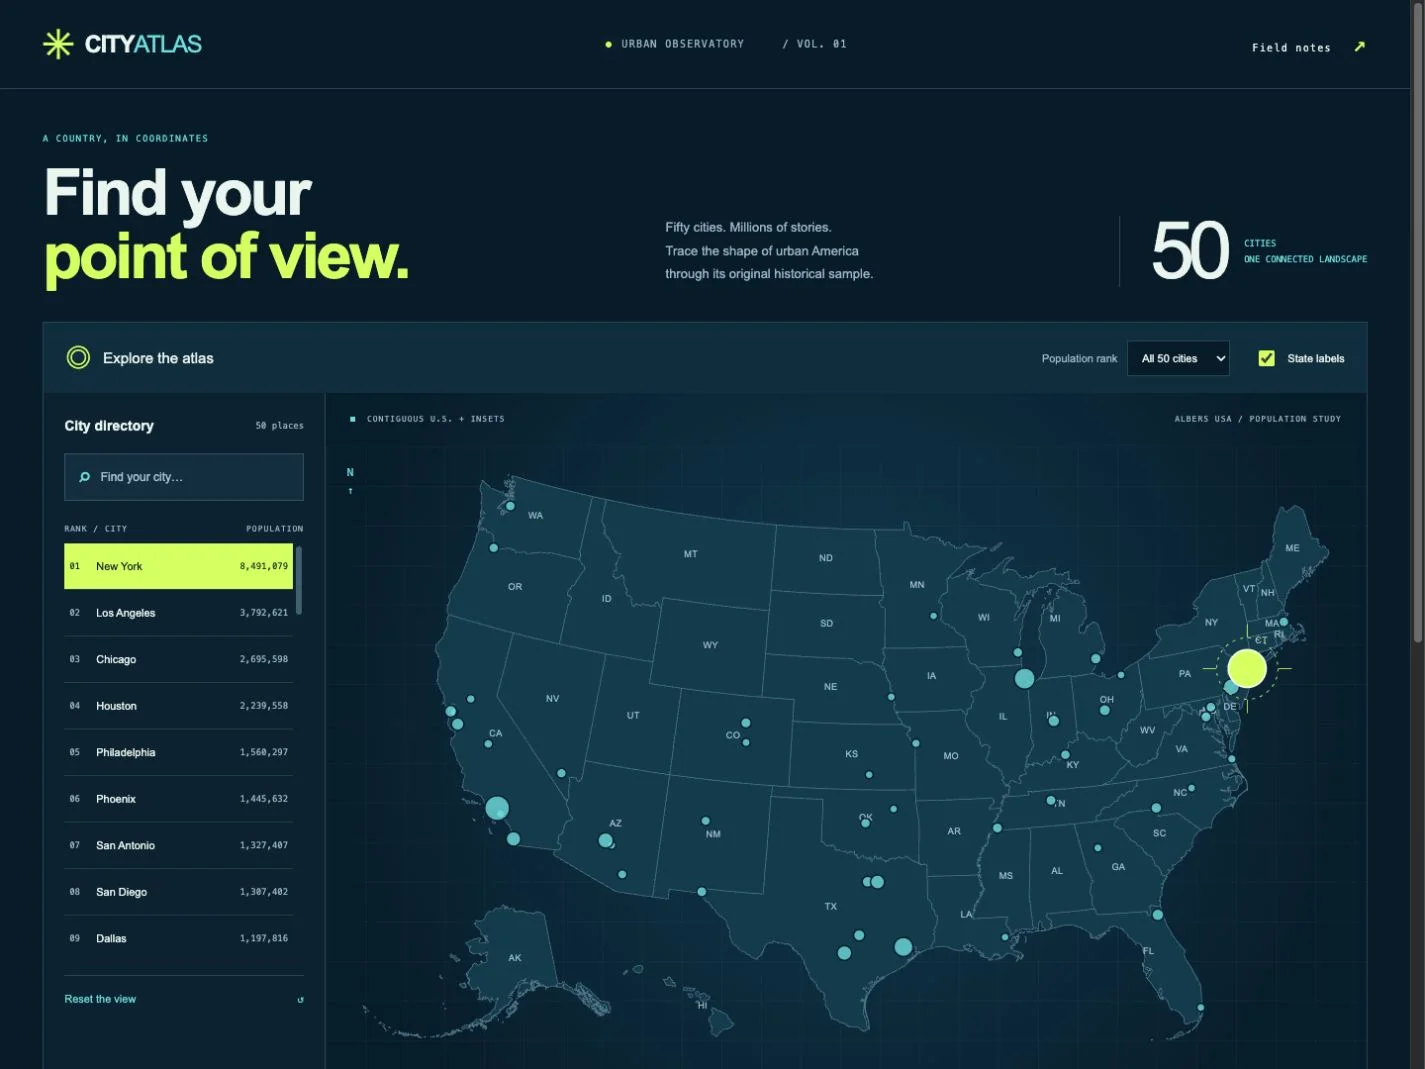
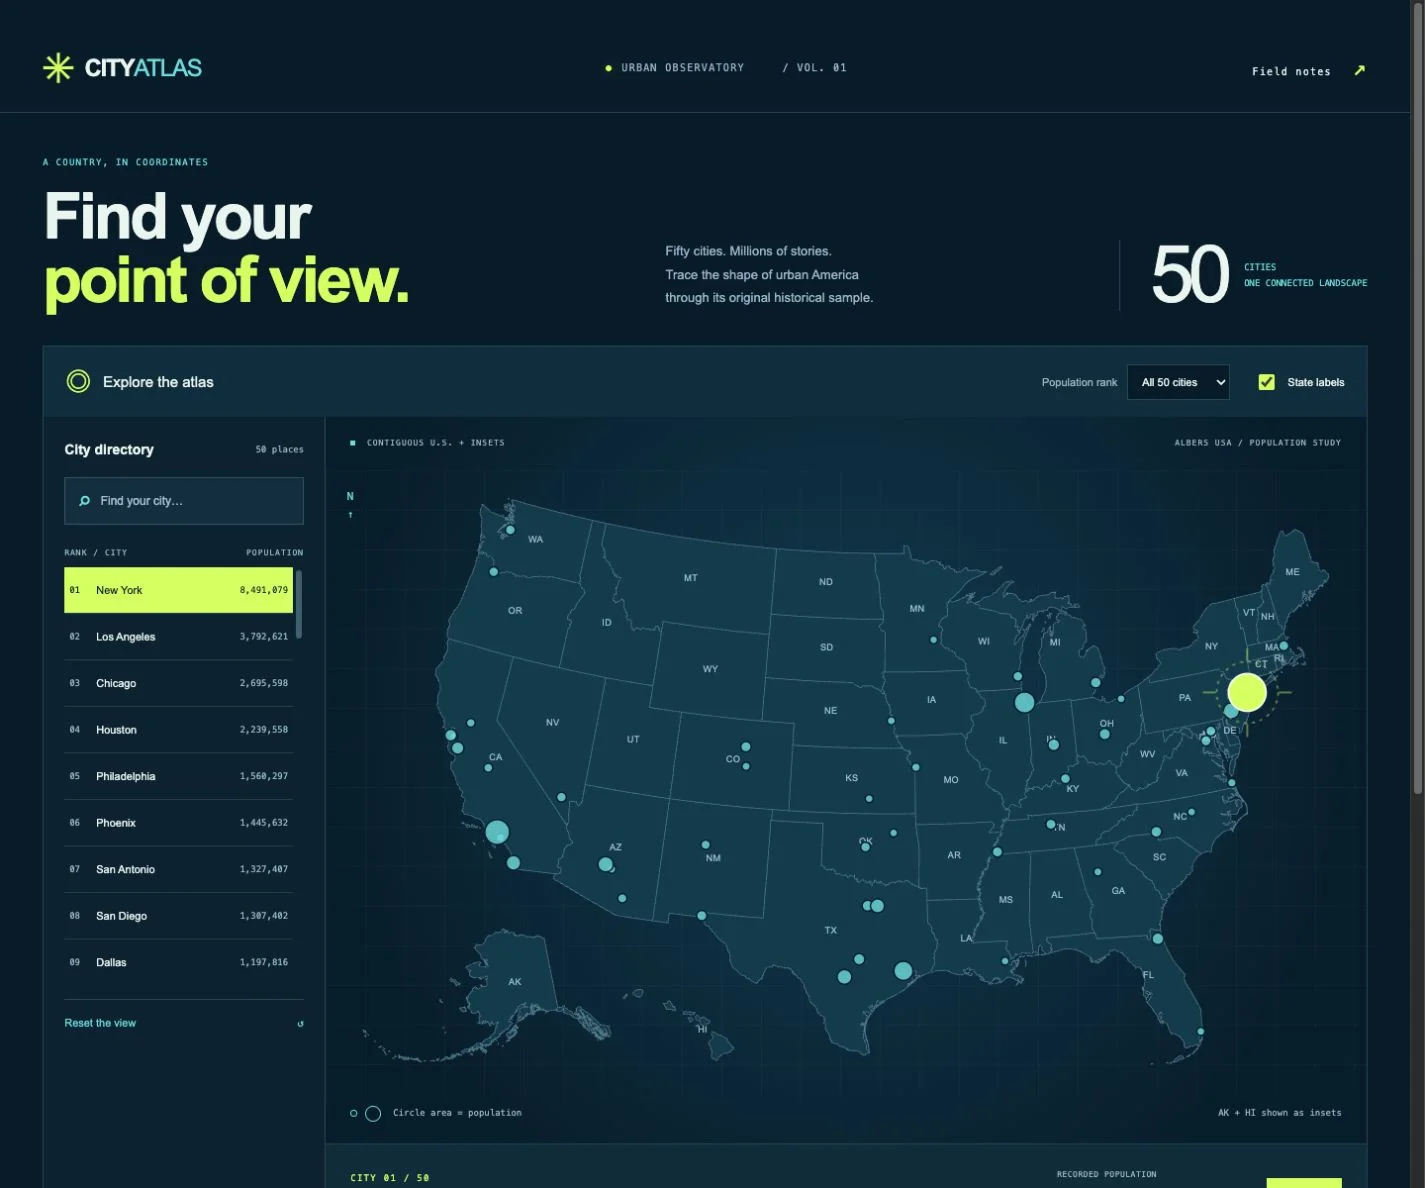
Capture the final published map and event designs

diff --git a/src/content/projects/city-atlas.md b/src/content/projects/city-atlas.md
@@ -18,7 +18,7 @@ screenshots:
     alt: 'City Atlas with a midnight-blue map workspace, cyan markers, chartreuse selection and a city directory rail.'
     caption: 'The refreshed desktop interface preserves the original project workflow.'
     width: 1425
-    height: 1069
+    height: 1188
   - src: 'images/projects/city-atlas-mobile.webp'
     alt: 'City Atlas on a narrow mobile screen.'
     caption: 'The opening mobile view, checked for readable content and controls that fit.'

diff --git a/src/content/projects/interval.md b/src/content/projects/interval.md
@@ -18,7 +18,7 @@ screenshots:
     alt: 'Interval event poster with acid-yellow typography, cobalt statistics, pink registration and optical ring artwork.'
     caption: 'The redesigned desktop experience.'
     width: 1600
-    height: 791
+    height: 739
   - src: 'images/projects/interval-mobile.webp'
     alt: 'Interval on a narrow mobile screen.'
     caption: 'A closer look at the responsive mobile experience.'
